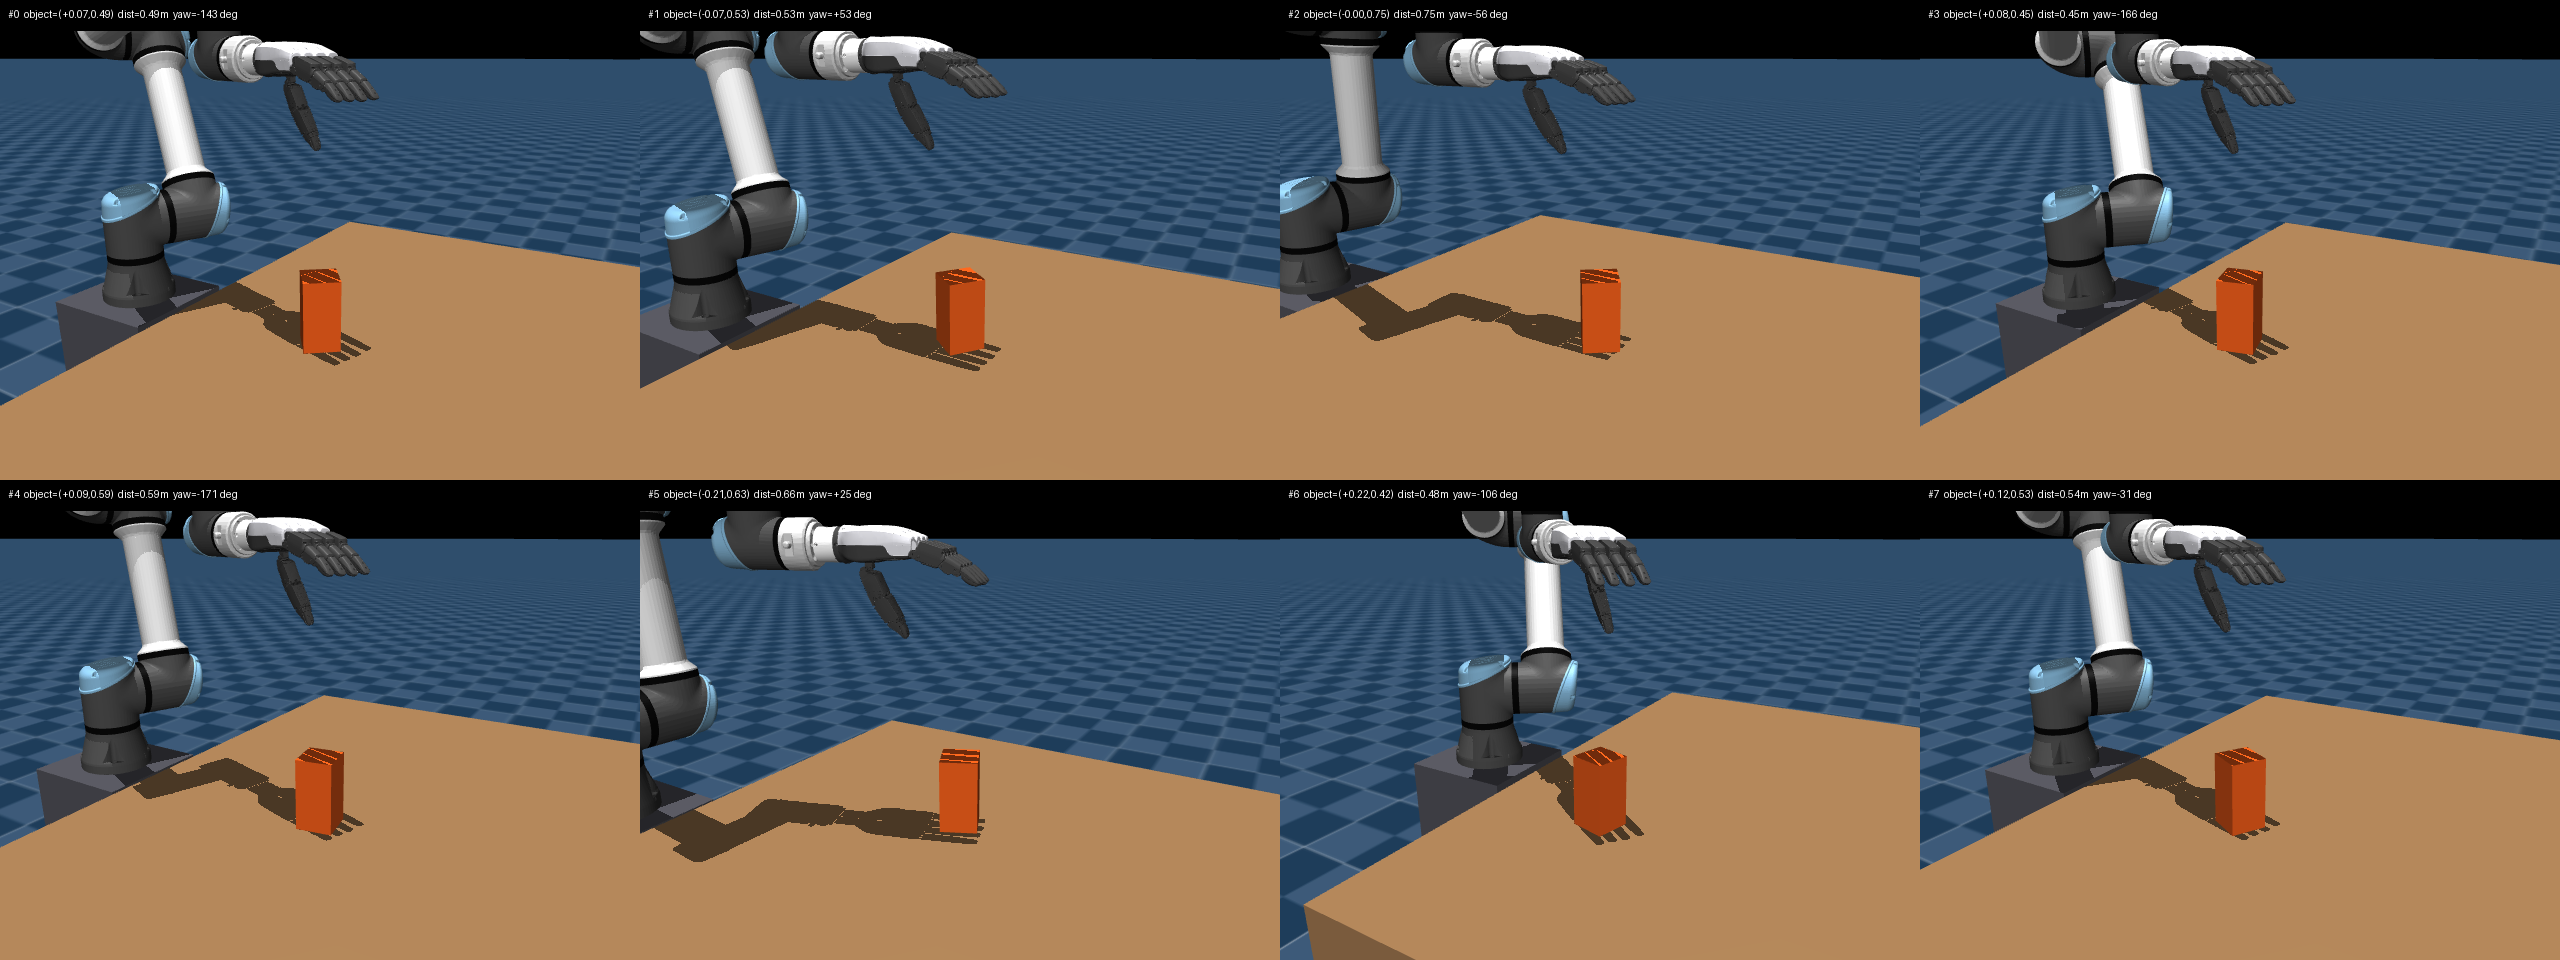
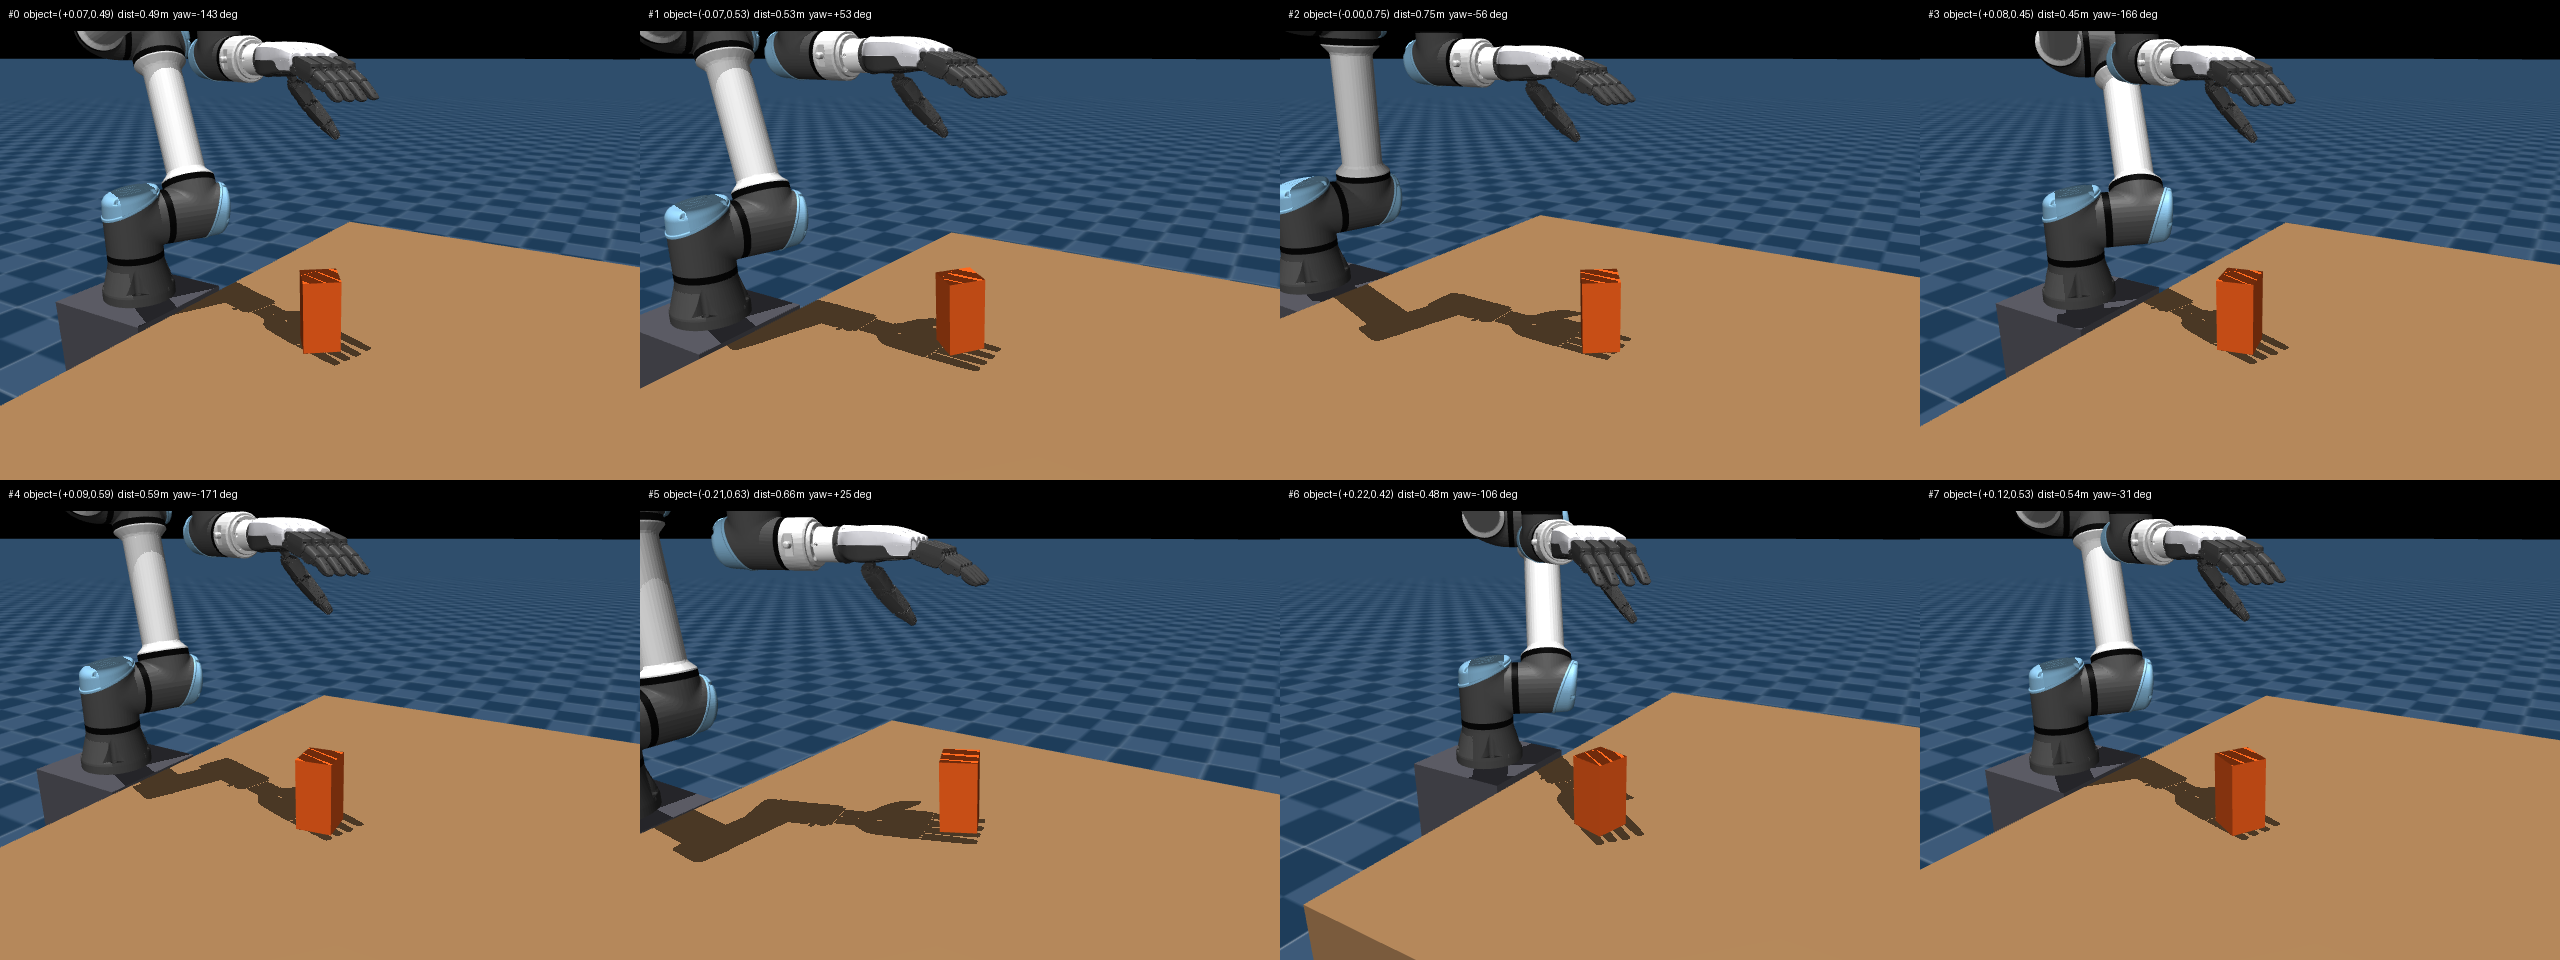
Open the teacher thumb pre-shape to 47 degrees from the palm
Thumb yaw drops from 1.2 to 0.8 rad at reset, widening the thumb-box gap at pre-close from 4.1 to 5.6 cm; the flexion joints were already near their lower limits. The scripted probe still closes the thumb to 1.2 rad and passes on native and Warp, and on 12 random placements.

diff --git a/src/mjlab/tasks/ur5e_rh5dg2/grasp/constants.py b/src/mjlab/tasks/ur5e_rh5dg2/grasp/constants.py
@@ -61,10 +61,10 @@ ARM_IK_SEED = (
   1.3518517203,
   -1.5707963268,
 )
-# Nearly extended fingers with a loose thumb, inside the 0.9 soft joint limits
-# that the action clamps to.
+# Nearly extended fingers and a thumb swung 47 deg from the palm plane, inside the
+# 0.9 soft joint limits that the action clamps to.
 OPEN_HAND = (
-  1.2,
+  0.8,
   0.08,
   0.06,
   0.06,

diff --git a/docs/superpowers/research/2026-09-24-pregrasp-sampling.md b/docs/superpowers/research/2026-09-24-pregrasp-sampling.md
@@ -31,11 +31,22 @@ measured from each env's stored start position rather than a fixed pose.
 
 ## Pre-shape
 
-The thumb keeps yaw 1.2 rad for opposition and is opened to mcp/pip/dip
-0.08/0.06/0.06 rad, raising the thumb-box gap at pre-close from 2.6 cm to 4.1 cm.
-Yaw 1.35 rad collides with the box and yaw 0.9 rad loses opposition.
+The thumb flexion joints sit near their lower soft limits (mcp/pip/dip
+0.08/0.06/0.06 rad), so further opening comes from yaw. Yaw swings the thumb from
+opposition toward the palm plane. Measured at pre-close:
 
-![Thumb opening at pre-close](assets/2026-09-24-thumb-opening.png)
+| Thumb yaw | Angle to palm plane | Thumb-box gap | Probe |
+| ---: | ---: | ---: | --- |
+| 1.2 | 58° | 4.1 cm | pass |
+| 1.0 | 54° | 4.6 cm | pass |
+| **0.8 (chosen)** | **47°** | **5.6 cm** | pass |
+| 0.6 | 38° | 6.2 cm | pass |
+| 0.4 | 29° | 6.9 cm | pass |
+
+The probe's closed pose keeps yaw 1.2, so closing swings the thumb back into
+opposition. Below 0.8 the thumb drifts beside the box rather than in front of it.
+
+![Thumb yaw at pre-close, side and front views](assets/2026-09-24-thumb-opening.png)
 
 ## Sampled poses
 
@@ -56,18 +67,18 @@ Raw reports: [native](assets/2026-09-24-pregrasp-native.json) and
 
 | Metric | Native CPU | Warp CPU |
 | --- | ---: | ---: |
-| Final lift | 0.1384 m | 0.1384 m |
+| Final lift | 0.1385 m | 0.1407 m |
 | Continuous stable hold | 3.0 s | 3.0 s |
-| Final object linear speed | 0.00067 m/s | 0.00077 m/s |
-| Peak hand/object contact depth | 1.32 mm | 1.33 mm |
-| Peak object/table contact depth | 1.80 mm | 2.71 mm |
+| Final object linear speed | 0.00063 m/s | 0.00068 m/s |
+| Peak hand/object contact depth | 1.33 mm | 1.33 mm |
+| Peak object/table contact depth | 1.81 mm | 2.92 mm |
 | Peak other robot contact depth | 0 | 0 |
 | Approach hand/object contact depth | 0 | 0 |
 | Maximum approach horizontal displacement | <0.000001 mm | <0.00002 mm |
 
 The same scripted grasp succeeded on 12 of 12 random edge-biased placements
-(yaw -124° to +177°, distance 0.45–0.73 m): lift 0.127–0.141 m, 3.9 s stable,
-zero approach displacement.
+(yaw -124° to +177°, distance 0.45–0.73 m), with both the 1.2 and 0.8 thumb yaw
+pre-shapes, and zero approach displacement.
 
 A 16-env, 3-iteration CPU training run completed with resets from the pool;
 object displacement penalty and lift-height metric stayed at zero at the start of

diff --git a/docs/superpowers/specs/2026-09-16-teacher-phase-dexgrasp-design.md b/docs/superpowers/specs/2026-09-16-teacher-phase-dexgrasp-design.md
@@ -38,9 +38,10 @@ it must not override policy actions during training.
   - Reject any robot-world contact within 5 mm and any robot self-penetration
     (the arm mount on the pedestal is excluded).
   - 1024 placements are solved once at startup; each reset draws one uniformly.
-- Fixed 18-joint pre-shape: thumb yaw 1.2 rad with mcp/pip/dip 0.08/0.06/0.06 rad
-  (opened for a 4.1 cm thumb-box gap at pre-close), index/middle yaw 0, other
-  flexion 0.1 rad. All values lie inside the 0.9 soft limits.
+- Fixed 18-joint pre-shape: thumb yaw 0.8 rad (47° from the palm plane, 5.6 cm
+  thumb-box gap at pre-close) with mcp/pip/dip 0.08/0.06/0.06 rad, index/middle
+  yaw 0, other flexion 0.1 rad. All values lie inside the 0.9 soft limits. The
+  probe closes the thumb back to yaw 1.2 rad.
 - MVP object: box, half extents (0.03, 0.03, 0.06) m, mass 0.08 kg,
   friction 1.0, condim 4. The nominal placement (-0.10, 0.48,
   TABLE_TOP_Z + 0.06) with identity orientation is used by the probe.
